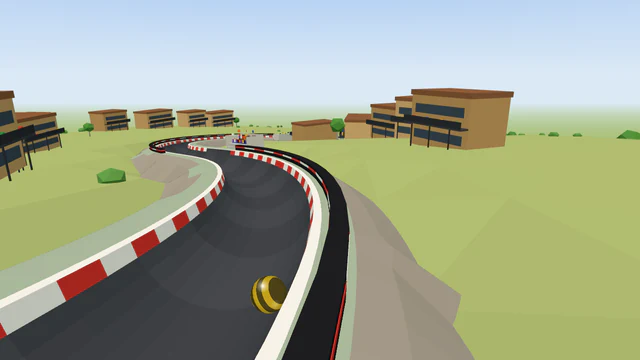
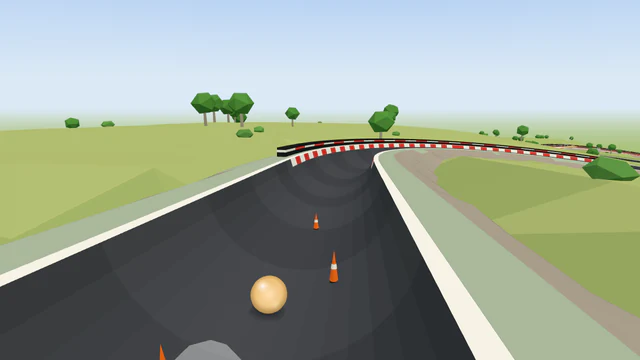
Sydney Marble Grand Prix: its own layout; its records start again
Moses's overnight order (6 Nov 2026): its own layout, clearly different from Stockholm's, with two
Sydney features. Until now Sydney was physically the same track as Lagos. The Circular Quay funnel
at the gate, the Harbour Bridge, The Rocks, the Circular Quay S-bends, the Opera House splitter (the
signature: a channel either side of the sails, tip and inside channel tuned), the Botanic Garden
spiral, the Woolloomooloo hairpin, the drop to Bondi, the Bondi wave (a half-pipe) and Macquarie
Street. Start shots from above, then high behind. Full report: all 52 lines pass (winner 53.9 s,
last 81.2 s, gap 15.8 s, 67 overtakes). Data update 2027-06-04-sydney-marble-grand-prix-new-
layout.sql (--relayout: its records start again). Off the sameness test's known failures; Elderglade's
opening and layout pass now too. Docs: 06, README. Full test suite: 625 pass.

Claude-Session: https://claude.ai/code/session_011vSSkqNPL9kncfzrwF15wS

diff --git a/src/tracks/sydney-marble-grand-prix.js b/src/tracks/sydney-marble-grand-prix.js
@@ -1,53 +1,66 @@
 'use strict';
 
-const { track, plunge, straight, sBends, sweep, spiral, hairpin, splitter, runIn, pileUp, swipe, parked, slalom, boost, rumble } = require('../trackKit');
+// Sydney Marble Grand Prix, its own layout (Moses, 6 Nov 2026, the overnight order: its own layout, clearly
+// different from Stockholm's, with two signature Sydney features). Until then it was the same track as Lagos and
+// Stockholm (the Grand Prix recipe of 10 Oct 2026, mirrored). Now the field squeezes through the Circular Quay funnel
+// at the gate, crosses the Harbour Bridge, threads The Rocks and the Circular Quay S-bends into the Opera House
+// splitter (the signature: a channel either side of the sails), spirals down through the Botanic Garden, round the
+// Woolloomooloo hairpin, drops to Bondi and rides the Bondi wave (a half-pipe), and along Macquarie Street to the
+// line. Its records started again with the new layout (tracks.records_since).
+const {
+  track, opening, straight, plunge, sBends, spiral, hairpin, splitter, halfPipe, runIn, peg, slalom, swipe, rumble,
+} = require('../trackKit');
 
 module.exports = track({
   slug: 'sydney-marble-grand-prix',
   name: 'Sydney Marble Grand Prix',
   difficulty: 'extreme',
-  description: 'A harbour race from the top of the Harbour Bridge arch, through The Rocks and round the Opera House to a grandstand finish at Circular Quay.',
+  description: 'A harbour race: through the Circular Quay funnel, across the Harbour Bridge, through The Rocks and round both sides of the Opera House, down through the Botanic Garden and round Woolloomooloo to ride the Bondi wave, and along Macquarie Street to the line.',
   surface: 'asphalt',
   biome: 'city',
   lighting: 'day',
   variants: ['sunset'],
-  grandPrix: true,
-  signature: 'Arch plunge',
+  grandPrix: { groupsEvery: 600 }, // (the small groups of spectators further apart than usual: the flyover's drawing budget)
+  signature: 'Opera House splitter',
   tvCameras: [
-    { section: 'Opera splitter', at: 0.8, side: 'left', distance: 10, height: 8 },
-    { section: 'Quay spiral', at: 0.8, side: 'right', distance: 10, height: 12 },
+    // (At the splitter's end, looking back at the two channels either side of the sails.)
+    { section: 'Opera House splitter', at: 0.85, side: 'right', distance: 8, height: 7 },
   ],
   billboardFrame: 'plain',
-  start: { scenery: ['sandstone-terraces'], shots: { countdown: 'chase', launch: 'side' } },
+  start: { scenery: ['sandstone-terraces'], gate: 'stalls', shots: { countdown: 'above', launch: 'high-behind' } },
   finish: { landmark: 'opera-house', scenery: ['grandstand'] },
   designChanges: [
-    'The traffic-cone chicane is at the foot of the Arch plunge, straight after the tyre stacks, rather than in The Rocks S-bends: on the bends it left too few overtakes and the field reached the splitter sorted so that one channel never gave its marbles a fair share of wins (measured on Dubai Marble Grand Prix, the same layout).',
-    'The Opera splitter comes straight after The Rocks S-bends, before the Harbour sweep, rather than after the Botanic hairpin: out of the hairpin the whole field rides one side of the channel and the splitter cannot share it out fairly (measured on Dubai Marble Grand Prix).',
-    'A 50 m straight, "Gardens straight", before the Botanic hairpin: the recipe needs a braking zone before the one sharp bend.',
-    'The rumble strips and the parked safety car are on a straight, "Quay straight", between the spiral and the finish rather than on the spiral and the run-in: the recipe keeps bumps off bends and the last 25 m before the line clear.',
+    'A new layout (6 Nov 2026): until then Sydney was physically the same track as Lagos and Stockholm Marble Grand Prix (the Grand Prix recipe, mirrored). Its old signature, the Arch plunge, goes.',
+    'Two Sydney features: the Opera House splitter (big feature one, the signature: a channel either side of the sails) and the Circular Quay funnel at the gate (big feature two: the field squeezes from the wide bowl into the channel, as at the ferry wharves). Then the Harbour Bridge, straight across and steep (0.19), and the Bondi wave, a half-pipe the field rocks along.',
+    'No boost pad on the Harbour Bridge: out of the funnel the weakest marbles took it far more often than the strongest (36% against 17%); the bridge is steeper instead. No parked safety car on Macquarie Street (two cones instead): wherever it stood, now and then the slowest marble stalled behind it for over 6 seconds.',
+    'The Opera House splitter\'s tip 2 m over and its inside channel a little rougher (1.5): with the proven Grand Prix splitter\'s (0.8 m over), nine marbles in ten took one channel; now about four in ten take the inside one, and both channels share the wins and places fairly. The Bondi wave two gentle swings (15°; at 18° the follow camera jumped as it rocked). Spectator groups every 600 m and less scenery than first drawn: the flyover\'s drawing budget. The Woolloomooloo hairpin comes before the drop to Bondi rather than after the Bondi wave: with the wave last but one, the track came back past it 30 m below, the ground rose between them and its banks crowded the finish shot past the line.',
+    'Clearly not Stockholm (a split start, a drop and a splitter): no other track\'s section order is close (Åre Run, the nearest, at 0.63). Its start shots (from above, then high behind) are its own among the Grand Prix tracks.',
   ],
+  opening: opening('funnel-drop', {
+    costumes: { block: 'tyre-stack', slalom: 'traffic-cone' },
+    names: { plunge: 'Circular Quay funnel' },
+    dress: { plunge: { scenery: ['sandstone-terraces'] } },
+  }),
   sections: [
+    { name: 'Harbour Bridge', shape: straight(80, { grade: 0.19 }), bridge: 'steel' },
     {
-      name: 'Arch plunge', shape: plunge(80, { grade: 0.6 }), bridge: 'steel',
-      obstacles: [pileUp({ costume: 'tyre-stack', at: 0.42 }), slalom({ costume: 'traffic-cone', from: 0.55, to: 0.97, count: 6, loss: 0.3 })],
+      name: 'The Rocks', shape: straight(40, { grade: 0.15 }),
+      obstacles: [peg({ costume: 'traffic-cone', at: 0.15, line: 'left' }), slalom({ costume: 'traffic-cone', from: 0.35, to: 0.65, count: 3, loss: 0.15 }), peg({ costume: 'traffic-cone', at: 0.85, line: 'center' })],
     },
-    { name: 'The Rocks S-bends', shape: sBends({ first: 'right', radius: 75, degrees: 80, grade: 0.13 }), billboards: 2, scenery: ['sandstone-terraces', 'crowd'] },
+    { name: 'Circular Quay S-bends', shape: sBends({ first: 'left', radius: 75, degrees: 85, grade: 0.15 }), billboards: 2 },
     {
-      name: 'Opera splitter', shape: splitter({ side: 'right', balance: { tipOffset: 0.8, left: { drag: 0.42, scrub: 0.72 }, right: { drag: 1.32, scrub: 1.32 } } }),
-      around: 'opera-house', scenery: ['crowd'],
+      name: 'Opera House splitter', shape: splitter({ side: 'left', balance: { tipOffset: -2.0, left: { drag: 1.5, scrub: 1.5 }, right: { drag: 0.42, scrub: 0.72 } } }),
+      around: 'opera-house',
     },
+    { name: 'Botanic Garden spiral', shape: spiral({ side: 'right', radius: 45, turns: 1.25, grade: 0.17 }), scenery: ['plane-trees'] },
+    { name: 'Run to the hairpin', shape: straight(50, { grade: 0.12 }), billboards: 2 },
+    { name: 'Woolloomooloo hairpin', shape: hairpin({ side: 'right' }), obstacles: [swipe({ costume: 'camera-crane', side: 'high' })] },
+    { name: 'Down to Bondi', shape: plunge(45, { grade: 0.28, from: 0.16 }), obstacles: [slalom({ costume: 'traffic-cone', from: 0.3, to: 0.9, count: 4, loss: 0.3 })] },
+    { name: 'Bondi wave', shape: halfPipe({ first: 'left', width: 8, swings: 2, radius: 150, degrees: 15, grade: 0.14 }), landmarks: [{ name: 'harbour', at: 0.5, side: 'right', distance: 30 }] },
     {
-      name: 'Harbour sweep', shape: sweep({ side: 'left', radius: 80, degrees: 160, grade: 0.07 }), features: [boost({ at: 0.08 })], billboards: 3,
-      landmarks: [{ name: 'harbour', at: 0.5, side: 'right', distance: 28 }],
-    },
-    { name: 'Gardens straight', shape: straight(50, { grade: 0.12 }), billboards: 1, scenery: ['plane-trees'] },
-    { name: 'Botanic hairpin', shape: hairpin({ side: 'right' }), obstacles: [swipe({ costume: 'camera-crane', side: 'high' })], scenery: ['plane-trees'] },
-    { name: 'Quay spiral', shape: spiral({ side: 'left', radius: 45, grade: 0.17 }) },
-    {
-      name: 'Quay straight', shape: straight(90, { grade: 0.15 }),
-      obstacles: [parked({ costume: 'safety-car', at: 0.15, side: 'left', length: 8 })],
-      features: [rumble({ from: 0.55, to: 0.95, count: 4 })], billboards: 2, scenery: ['grandstand'],
-      landmarks: [{ name: 'harbour', at: 0.6, side: 'right', distance: 26 }],
+      name: 'Macquarie Street', shape: straight(70, { grade: 0.15 }), billboards: 2, scenery: ['grandstand'],
+      obstacles: [peg({ costume: 'traffic-cone', at: 0.25, line: 'right' }), peg({ costume: 'traffic-cone', at: 0.45, line: 'left' })],
+      features: [rumble({ from: 0.7, to: 0.95, count: 3 })],
     },
     { name: 'Finish', shape: runIn(), scenery: ['grandstand'] },
   ],

diff --git a/test/samenessAllTracks.test.js b/test/samenessAllTracks.test.js
@@ -43,13 +43,12 @@ const KNOWN = {
   'amazon-water-run': ['layout'],
   'rio-jungle-rumble': ['opening', 'opening-kind', 'layout'],
   'china-wall-twister': ['opening', 'opening-kind', 'layout'],
-  // Grand Prix (one design: Dubai's, and Sydney's mirror of it).
+  // Grand Prix (one design: Dubai's; Stockholm, Lagos, Istanbul and Sydney have their own since 6–7 Nov 2026).
   'dubai-marble-grand-prix': ['opening', 'opening-kind', 'layout'],
-  'sydney-marble-grand-prix': ['opening', 'opening-kind', 'layout'],
   'nairobi-marble-grand-prix': ['opening', 'opening-kind', 'layout'],
   'delhi-red-fort-marble-grand-prix': ['opening', 'opening-kind', 'layout'],
   'sahara-marble-grand-prix': ['opening', 'opening-kind', 'layout'],
-  'elderglade-marble-grand-prix': ['opening', 'opening-kind', 'layout'],
+  'elderglade-marble-grand-prix': ['opening-kind'], // (its opening and layout are its own since Sydney, Lagos and Stockholm got theirs, 7 Nov 2026)
   'frostmere-marble-grand-prix': ['opening', 'opening-kind', 'layout'],
   'wyrmwood-hollow-marble-grand-prix': ['opening', 'opening-kind', 'layout'],
 };

diff --git a/docs/06-decisions.md b/docs/06-decisions.md
@@ -4,6 +4,7 @@
 
 | Date | Decision | Why |
 |---|---|---|
+| 2026-11-07 | **Sydney Marble Grand Prix's new layout built** (technical, on Moses's overnight order, 6 Nov 23:14: its own layout, clearly different from Stockholm's, with two Sydney features). The Circular Quay funnel at the gate (a big feature), the Harbour Bridge (straight, steep, no boost pad: out of the funnel the weakest marbles took it far more often), The Rocks (a peg, a slalom, a peg: the first 20 seconds otherwise matched Antelope Slot Spins'), the Circular Quay S-bends, the Opera House splitter (the signature; its tip 2 m over and its inside channel 1.5: with the proven setting nine marbles in ten took one channel), the Botanic Garden spiral, the Woolloomooloo hairpin, the drop to Bondi, the Bondi wave (a half-pipe, two gentle swings: at 18° the camera jumped) and Macquarie Street (no parked car: the slowest marble stalled behind it). The hairpin comes before Bondi: with the wave last but one the ground rose between it and the finish and its banks crowded the finish shot. Start shots from above, then high behind. Spectator groups every 600 m (the drawing budget). Nothing like Stockholm's order (the nearest track, Åre Run, at 0.63). Full report: all 52 lines pass (winner 53.9 s, last 81.2 s, gap 15.8 s, 67 overtakes). Data update `2027-06-04-sydney-marble-grand-prix-new-layout.sql` (`--relayout`); off the sameness test's known failures, and Elderglade's opening and layout now pass too. | Sydney raced the same race as Lagos and Stockholm on every seed. |
 | 2026-11-07 | **Istanbul Marble Grand Prix's new layout built** (technical, on Moses's overnight order, 6 Nov 23:14: no jump, the three jump tracks are used; a peg-field descent or a bazaar tunnel spiral). The crest start from the Galata Tower, the Golden Horn S-bends (a peg, a short slalom and a peg: without them the first 20 seconds matched Sognefjord's and Chiang Mai's), the Galata Bridge (pegs), the Grand Bazaar spiral (the big feature and signature: a turn and a half round the clock tower), the Topkapı hairpin, the Bosphorus sweep, the Ortaköy S-bends and the Bosphorus straight; no splitter. The spiral was drawn first inside the bazaar's vaulted tunnel: its roof came within 0.5 m of the follow camera on the tight turns, and market stalls round it blocked the camera, so it is open to the sky (the plan's fallback). The peg-field descent was tried and ran too slow (59.6 s winner). Start shots from the side, then overhead. Spectator groups every 450 m (the drawing budget). Full report: all 50 lines pass (winner 54.6 s, last 84.3 s, gap 16.1 s, 64 overtakes). Data update `2027-06-03-istanbul-marble-grand-prix-new-layout.sql` (`--relayout`); off the sameness test's known failures. | Istanbul raced the same race as Dubai in practice. |
 | 2026-11-07 | **Lagos Marble Grand Prix's new layout built** (technical, on Moses's approval: the Lagoon bridge banked turn approved 6 Nov 19:31; overnight order 6 Nov 23:14). A pipe drop at the gate (no boost launch, Moses; the field let go in waves), a six-gate slalom drop down to the market (the pipe drop has no pile-up: without it the strongest marbles won too often), the market S-bends, the Lagoon bridge banked turn (the big feature: 220° on the steel bridge, grade 0.12 for the pace), S-bends round Lagos Island (not a spiral, for the overtakes), the beach, the Lekki S-bends and hairpin (turning left: turning right brought the S-bends back over the finish line, covering the phone's finish shot), the Theatre straight; no splitter. Start shots from the front, then high behind. Spectator groups every 400 m (the flyover's drawing budget). Full report: all 52 lines pass (winner 54.6 s, last 84.2 s, gap 13.6 s, 60 overtakes, strongest 45.7% vs weakest 8.5%). Data update `2027-06-02-lagos-marble-grand-prix-new-layout.sql` (`--relayout`: its records start again); off the sameness test's known failures. | Lagos raced the same race as Sydney (and Stockholm, until 6 Nov) on every seed. |
 | 2026-11-06 | **Stockholm Marble Grand Prix's new layout built** (technical, on Moses's approval of the plan): a split start (the Södermalm twin chutes), then the library's climb-drop layout mirrored: the Katarina crest and the Slussen drop (its big feature and new signature; the old Bridge sweep goes), the Gamla Stan S-bends and splitter, City Hall hairpin, Djurgården spiral, Strandvägen. Two changes to the layout from tuning: the Gamla Stan S-bends turn 85° rather than 70° (out of the 70° bends the leaders took one channel of the splitter far more often than their share) and run a little steeper, with Strandvägen too (the winner-to-last gap). The splitter's tip and inside channel are tuned (tipOffset -1.6, inside 2.6). Start shots a chase then a low chase (the planned above/low chase is Lagos's today). Full report: all 56 lines pass (winner 49.1 s, last 81.5 s, gap 17.8 s, 63 overtakes). Data update `2027-06-01-stockholm-marble-grand-prix-new-layout.sql` (`--relayout`: its records start again); it comes off the sameness test's known failures. | Stockholm raced the same race as Sydney and Lagos on every seed. |

diff --git a/docs/README.md b/docs/README.md
@@ -9,7 +9,7 @@
 **Where it stands:**
 - **Website:** live at marblespins.com (Vercel builds every push to `Main`; redeployed by Moses on 1 Nov after the Blocks Series 2 switch-on). Soft start (social media, 10–20 invited test pilots) since the week of 26 Oct. **Official launch 1 Dec 2026**, with the Holiday Season, the season pass and the apps. Google Analytics 4 is on since 31 Oct (after cookie consent); the Meta Pixel is off.
 - **Tracks:** **143 live in ten series**: World Tour, Grand Prix, Coasters, Canyons, Blocks, Track and Field, Rivers (16), Peaks (15), Pinball and Arcade. The 31 holiday tracks are switched on but hidden and closed until 1 Dec 00:00 Swedish time (174 then). **Blocks Series 2: all 20 live** (two big features each): the test five since 31 Oct; the other fifteen (four cities, three rivers, four mountains, four winter tracks) switched on by Moses on 1 Nov after the server deploy. **Saint-Tropez** (World Tour) and **Pudong Marble Grand Prix** (Grand Prix), the first two tracks with the kit's loop, switched on by Moses on 4 Nov 2026 by hand in Railway's query box, after the server deploy; the website redeployed the same morning.
-- **Server:** deployed by Moses on 6 Nov 2026 from Main (code fingerprint `533b9d0d08de`, `645de71`; 487 columns): the records reset on a new layout (`tracks.records_since`) and Stockholm Marble Grand Prix's own layout (data update `2027-06-01-stockholm-marble-grand-prix-new-layout.sql`; its records started again). Before that, 4 Nov (`d7928db64307`, `ae7dc20`; 177 tracks in the database): Pudong Marble Grand Prix (data update `2027-05-31-add-pudong-marble-grand-prix.sql`). Before that, 3 Nov (`a096af4ab19a`, 176 tracks): the loop engine (physics for the track kit's `loop` piece) and Saint-Tropez (`2027-05-30-add-saint-tropez.sql`). Before that, 2 Nov (`fb4654c0885e`, last server change `6e23a24`; 486 columns): the back office Dashboard, staff accounts (`users.is_staff`), the first-visit steps (`first_steps`), guests made with what they tapped, the hourly IP clean-up, the Security tab loaded on its own and audited (`security-view`), and the first country in the Players list. **Waiting for the next server deploy:** the new layouts of Lagos and Istanbul Marble Grand Prix (data updates `2027-06-02-lagos-…` and `2027-06-03-istanbul-…-new-layout.sql`, which reset their records). Take a backup first.
+- **Server:** deployed by Moses on 6 Nov 2026 from Main (code fingerprint `533b9d0d08de`, `645de71`; 487 columns): the records reset on a new layout (`tracks.records_since`) and Stockholm Marble Grand Prix's own layout (data update `2027-06-01-stockholm-marble-grand-prix-new-layout.sql`; its records started again). Before that, 4 Nov (`d7928db64307`, `ae7dc20`; 177 tracks in the database): Pudong Marble Grand Prix (data update `2027-05-31-add-pudong-marble-grand-prix.sql`). Before that, 3 Nov (`a096af4ab19a`, 176 tracks): the loop engine (physics for the track kit's `loop` piece) and Saint-Tropez (`2027-05-30-add-saint-tropez.sql`). Before that, 2 Nov (`fb4654c0885e`, last server change `6e23a24`; 486 columns): the back office Dashboard, staff accounts (`users.is_staff`), the first-visit steps (`first_steps`), guests made with what they tapped, the hourly IP clean-up, the Security tab loaded on its own and audited (`security-view`), and the first country in the Players list. **Waiting for the next server deploy:** the new layouts of Lagos, Istanbul and Sydney Marble Grand Prix (data updates `2027-06-02-lagos-…`, `2027-06-03-istanbul-…` and `2027-06-04-sydney-…-new-layout.sql`, which reset their records). Take a backup first.
 - **Apps:** iPhone and Android (Capacitor) are built; the Android app is tested on Moses's phone. They need a rebuild for the keep-awake fix and the new sounds. Store submission is planned for 16–20 Nov.
 - **Email: on since 1 Nov 2026** (Brevo; `BREVO_API_KEY` and `EMAIL_FROM` on Railway, a password-reset email arrived in Moses's inbox; sender no-reply@marblespins.com since 4 Nov 2026, marblespins.com re-authenticated in Brevo that day, support replies with support@ as reply-to): password resets, "Confirm your email" for new sign-ups, support replies and contact-form notifications. The pass reminders are not sent yet.
 - **Payments:**
